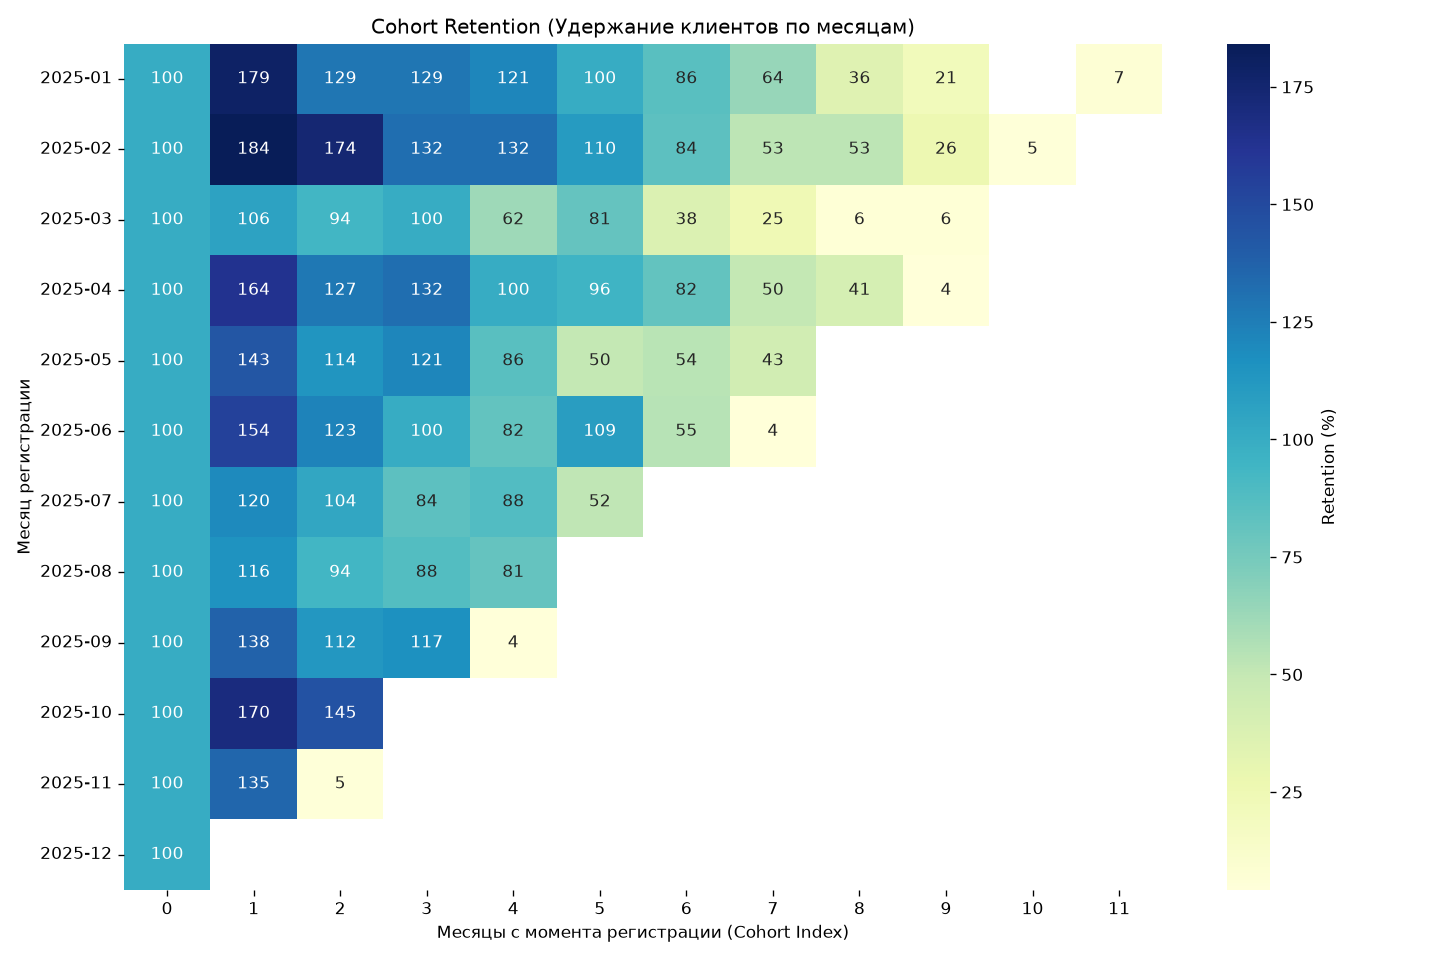
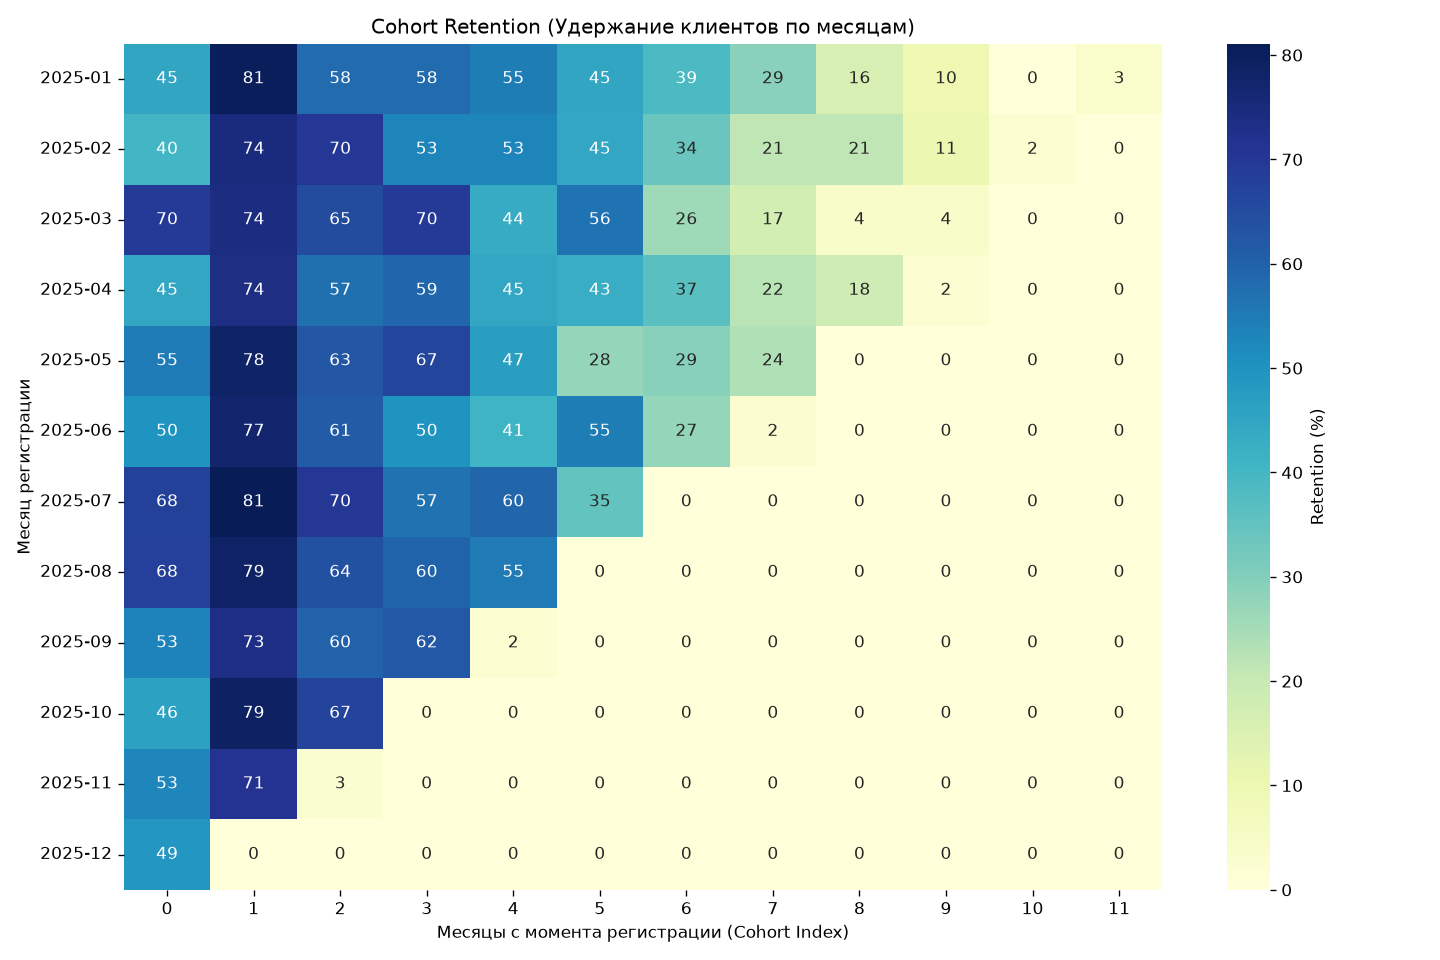
fix(analysis): correct cohort sizes denominator and update heatmap

diff --git a/src/analysis.py b/src/analysis.py
@@ -5,18 +5,20 @@ def calculate_cohorts(users: pd.DataFrame, txs: pd.DataFrame) -> pd.DataFrame:
     users["signup_month"] = pd.to_datetime(users["signup_date"]).dt.to_period("M")
     txs["tx_month"] = pd.to_datetime(txs["tx_date"]).dt.to_period("M")
 
-    # merge
     df = txs.merge(users, on="user_id")
-
-    # Вычисляем "возраст" клиента в месяцах (Cohort Index)
     df["cohort_index"] = (df["tx_month"] - df["signup_month"]).apply(lambda x: x.n)
 
-    # Группируем и считаем уникальных пользователей
     cohort_data = df.groupby(["signup_month", "cohort_index"])["user_id"].nunique().reset_index()
-
-    # Считаем Retention (процент вернувшихся)
     cohort_counts = cohort_data.pivot(index="signup_month", columns="cohort_index", values="user_id")
-    cohort_sizes = cohort_counts.iloc[:, 0]
+
+    # ИСПРАВЛЕНИЕ: Берем размер когорты из таблицы users (все зарегистрировавшиеся),
+    # а не из первой колонки с транзакциями
+    cohort_sizes = users.groupby("signup_month")["user_id"].nunique()
+
+    # Делим на правильный знаменатель и переводим в проценты
     retention = cohort_counts.divide(cohort_sizes, axis=0).round(3) * 100
+
+    # Заменяем пустые значения (NaN) на 0, чтобы график был ровным
+    retention = retention.fillna(0)
 
     return retention
